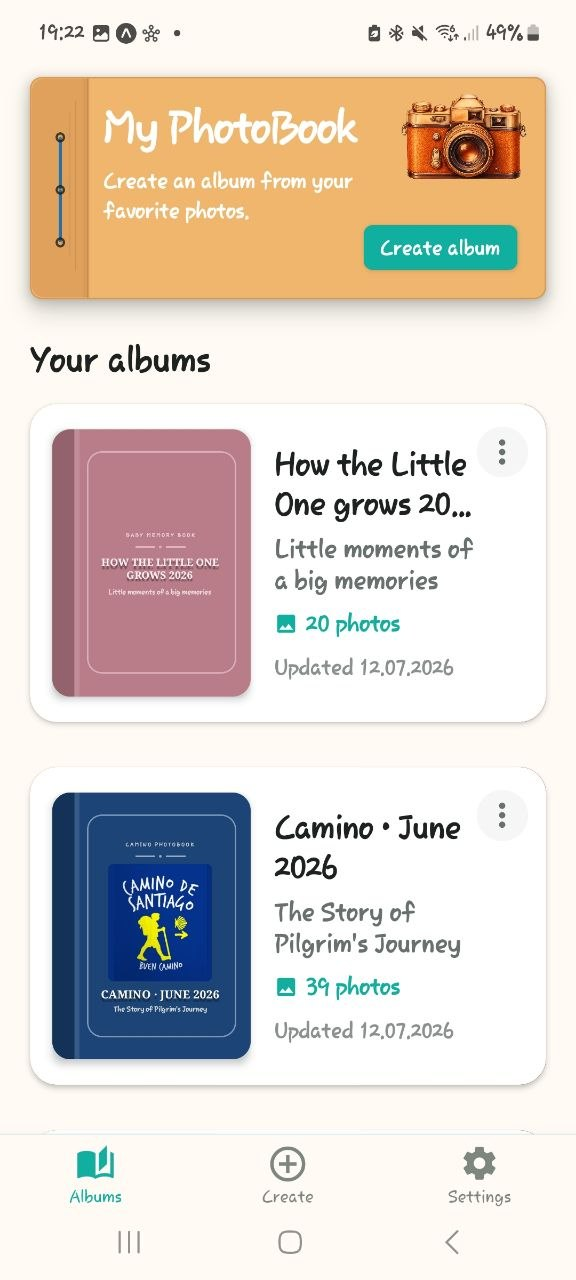
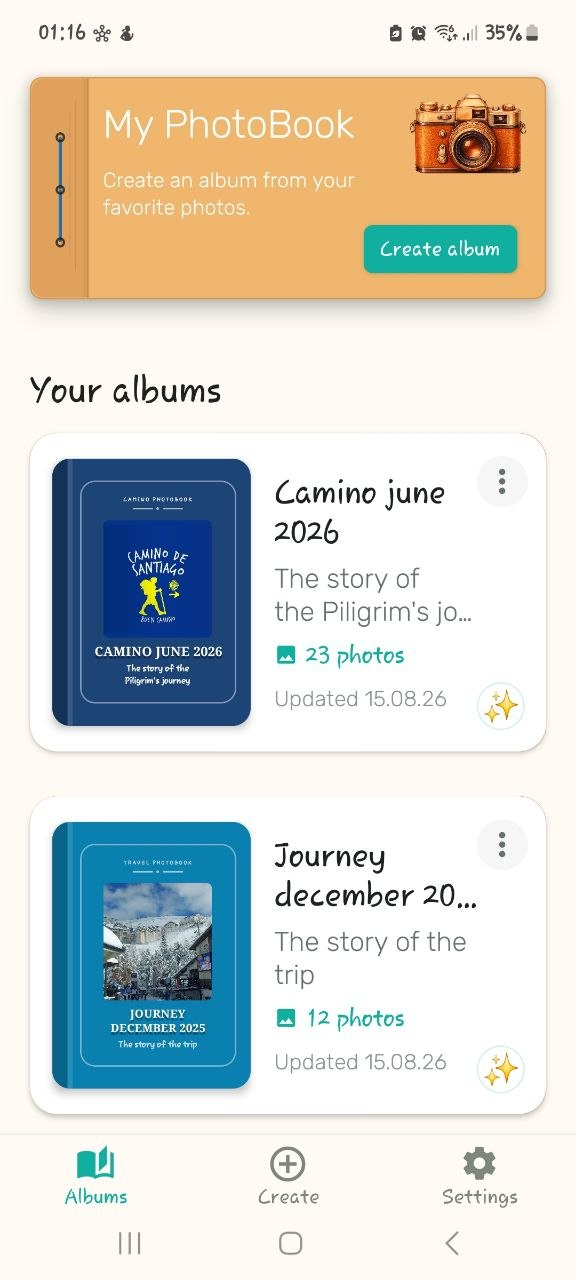
Update portfolio projects, screenshots and branding

diff --git a/src/translations.js b/src/translations.js
@@ -79,16 +79,16 @@ export const translations = {
       kicker: "Web development",
       title: "Web projects",
       description:
-        "Current builds come first, followed by a diploma project and a compact archive of earlier front-end work.",
+        "Published and current web work comes first, followed by a compact archive of earlier front-end projects.",
       currentKicker: "In progress",
       currentTitle: "Currently building",
       currentDescription:
-        "Two active builds that are not public yet, so the portfolio shows their direction without presenting them as released products.",
+        "KeyLab is still in development, so it is shown here as active work rather than a released website.",
       webKicker: "Selected web work",
       webTitle: "Diploma project",
       webDescription:
         "A larger web project from my front-end training, kept separate from the smaller learning exercises.",
-      completedTitle: "Completed project",
+      completedTitle: "Completed projects",
       archiveKicker: "Learning archive",
       archiveTitle: "Early web projects",
       archiveDescription:
@@ -102,9 +102,9 @@ export const translations = {
         5: { description: "Pixel-focused webpage layout and adaptive presentation." },
         6: { description: "Nature-themed page with careful desktop and mobile layout." },
         9: {
-          status: "In development",
+          status: "Published website",
           tag: "Learning platform",
-          description: "A structured learning platform for Spanish and English courses from A0 to C1.",
+          description: "A published learning platform for structured Spanish and English courses from A0 to C1.",
           features: ["Spanish & English", "A0–C1 levels", "interactive lessons"],
         },
         10: {
@@ -226,16 +226,16 @@ export const translations = {
       kicker: "Desarrollo web",
       title: "Proyectos web",
       description:
-        "Primero aparecen los proyectos actuales en desarrollo; después, el proyecto final y un archivo compacto de trabajos anteriores.",
+        "Primero aparecen los trabajos web publicados y actuales; después, un archivo compacto de proyectos front-end anteriores.",
       currentKicker: "En desarrollo",
       currentTitle: "Proyectos actuales",
       currentDescription:
-        "Dos proyectos en desarrollo que todavía no están publicados. Aquí muestro su dirección sin presentarlos como productos ya lanzados.",
+        "KeyLab sigue en desarrollo, por eso aparece aquí como trabajo activo y no como un sitio ya publicado.",
       webKicker: "Trabajo web seleccionado",
       webTitle: "Proyecto final",
       webDescription:
         "Un proyecto web más amplio de mi formación front-end, separado de los ejercicios de aprendizaje más pequeños.",
-      completedTitle: "Proyecto terminado",
+      completedTitle: "Proyectos terminados",
       archiveKicker: "Archivo de aprendizaje",
       archiveTitle: "Primeros proyectos web",
       archiveDescription:
@@ -249,9 +249,9 @@ export const translations = {
         5: { description: "Maquetación web cuidada con presentación adaptativa." },
         6: { description: "Página con temática de naturaleza y diseño adaptado a móvil y escritorio." },
         9: {
-          status: "En desarrollo",
+          status: "Sitio publicado",
           tag: "Plataforma educativa",
-          description: "Una plataforma estructurada para aprender español e inglés desde A0 hasta C1.",
+          description: "Una plataforma publicada para aprender español e inglés de forma estructurada desde A0 hasta C1.",
           features: ["español e inglés", "niveles A0–C1", "lecciones interactivas"],
         },
         10: {
@@ -373,16 +373,16 @@ export const translations = {
       kicker: "Web-разработка",
       title: "Web-проекты",
       description:
-        "Сначала — проекты, над которыми я работаю сейчас. Ниже — дипломный проект и компактный архив ранних front-end работ.",
+        "Сначала — опубликованные и текущие web-проекты. Ниже — компактный архив более ранних front-end работ.",
       currentKicker: "В разработке",
       currentTitle: "Сейчас в работе",
       currentDescription:
-        "Два проекта в разработке, которые пока не опубликованы. Здесь показано их направление без попытки выдать разработку за готовый релиз.",
+        "KeyLab пока находится в разработке, поэтому здесь он показан как текущая работа, а не как опубликованный сайт.",
       webKicker: "Избранная web-работа",
       webTitle: "Дипломный проект",
       webDescription:
         "Более крупный web-проект из моего front-end обучения, отделённый от небольших учебных упражнений.",
-      completedTitle: "Завершенный проект",
+      completedTitle: "Завершённые проекты",
       archiveKicker: "Архив обучения",
       archiveTitle: "Ранние web-проекты",
       archiveDescription:
@@ -396,9 +396,9 @@ export const translations = {
         5: { description: "Аккуратная web-верстка с адаптивной презентацией." },
         6: { description: "Страница о природе с продуманной desktop и mobile версткой." },
         9: {
-          status: "В разработке",
+          status: "Опубликованный сайт",
           tag: "Учебная платформа",
-          description: "Полноценная платформа для изучения испанского и английского языков по уровням от A0 до C1.",
+          description: "Опубликованная платформа для последовательного изучения испанского и английского языков по уровням от A0 до C1.",
           features: ["испанский и английский", "уровни A0–C1", "интерактивные уроки"],
         },
         10: {

diff --git a/src/data.js b/src/data.js
@@ -46,15 +46,12 @@ export const products = [
     },
     {
         id: 9,
-        img: {
-            ru: "/project-screens/my-language-studio.webp",
-            en: "/project-screens/my-language-studio-en.webp",
-            es: "/project-screens/my-language-studio-es.webp",
-        },
+        img: "/project-screens/my-language-studio-full.webp",
+        link: "https://mylangstudio.com/",
         title: "My Language Studio",
         tag: "Learning platform",
-        kind: "development",
-        description: "Language-learning platform with structured Spanish and English courses from A0 to C1.",
+        kind: "web",
+        description: "Published language-learning platform with structured Spanish and English courses from A0 to C1.",
     },
     {
         id: 10,
@@ -127,17 +124,101 @@ export const apps = [
                     src: "/app-screens/my-photobook-home-en.jpg",
                     label: "Albums screen",
                 },
+                {
+                    src: "/app-screens/my-photobook-create-en.jpg",
+                    label: "New album setup",
+                },
+                {
+                    src: "/app-screens/my-photobook-gallery-en.jpg",
+                    label: "Photo gallery and editing",
+                },
+                {
+                    src: "/app-screens/my-photobook-preview-travel-en.jpg",
+                    label: "Travel album page preview",
+                },
+                {
+                    src: "/app-screens/my-photobook-print-en.jpg",
+                    label: "Print format selection",
+                },
+                {
+                    src: "/app-screens/my-photobook-hardcover-en.jpg",
+                    label: "Hardcover print settings",
+                },
+                {
+                    src: "/app-screens/my-photobook-actions-en.jpg",
+                    label: "PDF, print and album actions",
+                },
+                {
+                    src: "/app-screens/my-photobook-cover-camino-en.jpg",
+                    label: "Finished Camino album cover",
+                },
             ],
             es: [
                 {
                     src: "/app-screens/my-photobook-home-es.jpg",
                     label: "Pantalla de álbumes",
                 },
+                {
+                    src: "/app-screens/my-photobook-create-en.jpg",
+                    label: "Creación de un nuevo álbum",
+                },
+                {
+                    src: "/app-screens/my-photobook-gallery-en.jpg",
+                    label: "Galería y edición de fotos",
+                },
+                {
+                    src: "/app-screens/my-photobook-preview-travel-en.jpg",
+                    label: "Vista previa de una página del álbum",
+                },
+                {
+                    src: "/app-screens/my-photobook-print-en.jpg",
+                    label: "Selección del formato de impresión",
+                },
+                {
+                    src: "/app-screens/my-photobook-hardcover-en.jpg",
+                    label: "Ajustes de impresión de tapa dura",
+                },
+                {
+                    src: "/app-screens/my-photobook-actions-en.jpg",
+                    label: "Acciones de PDF, impresión y álbum",
+                },
+                {
+                    src: "/app-screens/my-photobook-cover-camino-en.jpg",
+                    label: "Portada terminada del álbum Camino",
+                },
             ],
             ru: [
                 {
                     src: "/app-screens/my-photobook-home-ru.jpg",
                     label: "Экран альбомов",
+                },
+                {
+                    src: "/app-screens/my-photobook-create-en.jpg",
+                    label: "Создание нового альбома",
+                },
+                {
+                    src: "/app-screens/my-photobook-gallery-en.jpg",
+                    label: "Галерея и редактирование фотографий",
+                },
+                {
+                    src: "/app-screens/my-photobook-preview-travel-en.jpg",
+                    label: "Предпросмотр страницы альбома",
+                },
+                {
+                    src: "/app-screens/my-photobook-print-en.jpg",
+                    label: "Выбор формата печати",
+                },
+                {
+                    src: "/app-screens/my-photobook-hardcover-en.jpg",
+                    label: "Настройки печати твёрдой обложки",
+                },
+                {
+                    src: "/app-screens/my-photobook-actions-en.jpg",
+                    label: "PDF, печать и действия с альбомом",
+                },
+                {
+                    src: "/app-screens/my-photobook-cover-camino-en.jpg",
+                    label: "Готовая обложка альбома Camino",
                 },
             ],
         },

diff --git a/src/components/productList/ProductList.jsx b/src/components/productList/ProductList.jsx
@@ -13,8 +13,8 @@ const ProductList = () => {
   }));
 
   const getProject = (id) => translatedProducts.find((item) => item.id === id);
-  const currentBuilds = [9, 10].map(getProject).filter(Boolean);
-  const selectedWeb = getProject(2);
+  const currentBuilds = [10].map(getProject).filter(Boolean);
+  const completedProjects = [9, 2].map(getProject).filter(Boolean);
   const archive = [3, 4, 5, 6].map(getProject).filter(Boolean);
 
   return (
@@ -33,7 +33,7 @@ const ProductList = () => {
             <span aria-hidden="true">ϟ</span>
             <h3>{t.projects.currentTitle}</h3>
           </div>
-          <div className="pl-current-grid">
+          <div className={`pl-current-grid${currentBuilds.length === 1 ? " pl-current-grid--single" : ""}`}>
             {currentBuilds.map((item) => (
               <Product
                 key={item.id}
@@ -46,18 +46,24 @@ const ProductList = () => {
         </section>
 
         <div className="pl-lower-grid">
-          {selectedWeb && (
+          {completedProjects.length > 0 && (
             <section className="pl-completed">
               <div className="pl-section-title pl-section-title--completed">
                 <span aria-hidden="true">✓</span>
                 <h3>{t.projects.completedTitle || t.projects.webTitle}</h3>
               </div>
-              <Product
-                product={selectedWeb}
-                openLabel={t.projects.openProject}
-                variant="web-feature"
-                contextLabel={t.projects.diplomaLabel}
-              />
+              <div className="pl-completed-grid">
+                {completedProjects.map((item) => (
+                  <Product
+                    key={item.id}
+                    product={item}
+                    openLabel={t.projects.openProject}
+                    variant="web-feature"
+                    contextLabel={item.status || t.projects.diplomaLabel}
+                    language={language}
+                  />
+                ))}
+              </div>
             </section>
           )}
 

diff --git a/public/index.html b/public/index.html
@@ -3,7 +3,20 @@
 <head>
   <meta charset="utf-8" />
   <meta name="viewport" content="width=device-width, initial-scale=1" />
-  <meta name="description" content="Portfolio of Uladzimir Aliakhnovich, web and mobile app developer building React websites and Android applications." />
+  <meta name="theme-color" content="#061121" />
+  <meta name="description" content="Portfolio of Uladzimir Aliakhnovich, web and mobile developer building responsive websites and mobile applications." />
+  <meta property="og:type" content="website" />
+  <meta property="og:title" content="Uladzimir Aliakhnovich | Web and Mobile Developer" />
+  <meta property="og:description" content="Portfolio of Uladzimir Aliakhnovich, web and mobile developer building responsive websites and mobile applications." />
+  <meta property="og:image" content="%PUBLIC_URL%/og-image.png" />
+  <meta name="twitter:card" content="summary_large_image" />
+  <meta name="twitter:title" content="Uladzimir Aliakhnovich | Web and Mobile Developer" />
+  <meta name="twitter:description" content="Portfolio of Uladzimir Aliakhnovich, web and mobile developer building responsive websites and mobile applications." />
+  <meta name="twitter:image" content="%PUBLIC_URL%/og-image.png" />
+  <link rel="icon" href="%PUBLIC_URL%/favicon.ico" sizes="any" />
+  <link rel="icon" type="image/png" sizes="32x32" href="%PUBLIC_URL%/favicon-32x32.png" />
+  <link rel="apple-touch-icon" sizes="180x180" href="%PUBLIC_URL%/apple-touch-icon.png" />
+  <link rel="manifest" href="%PUBLIC_URL%/site.webmanifest" />
   <link rel="preconnect" href="https://fonts.googleapis.com">
   <link rel="preconnect" href="https://fonts.gstatic.com" crossorigin>
   <link href="https://fonts.googleapis.com/css2?family=Poppins:wght@200;300;400;500;600;700;800;900&display=swap" rel="stylesheet">

diff --git a/src/components/productList/productList.css b/src/components/productList/productList.css
@@ -108,14 +108,24 @@
     gap: 22px;
 }
 
+.pl-current-grid--single {
+    grid-template-columns: minmax(0, calc((100% - 22px) / 2));
+    justify-content: center;
+}
+
 .pl-lower-grid {
     display: block;
     margin-top: 48px;
 }
 
 .pl-completed {
-    width: calc((100% - 22px) / 2);
-    margin: 0 auto;
+    width: 100%;
+}
+
+.pl-completed-grid {
+    display: grid;
+    grid-template-columns: repeat(2, minmax(0, 1fr));
+    gap: 22px;
 }
 
 .pl-archive {
@@ -139,12 +149,13 @@
     }
 
     .pl-current-grid,
+    .pl-completed-grid,
     .pl-archive-grid {
         grid-template-columns: 1fr;
     }
 
-    .pl-completed {
-        width: 100%;
+    .pl-current-grid--single {
+        grid-template-columns: 1fr;
     }
 }
 
@@ -177,6 +188,7 @@
     }
 
     .pl-current-grid,
+    .pl-completed-grid,
     .pl-archive-grid {
         gap: 16px;
     }
